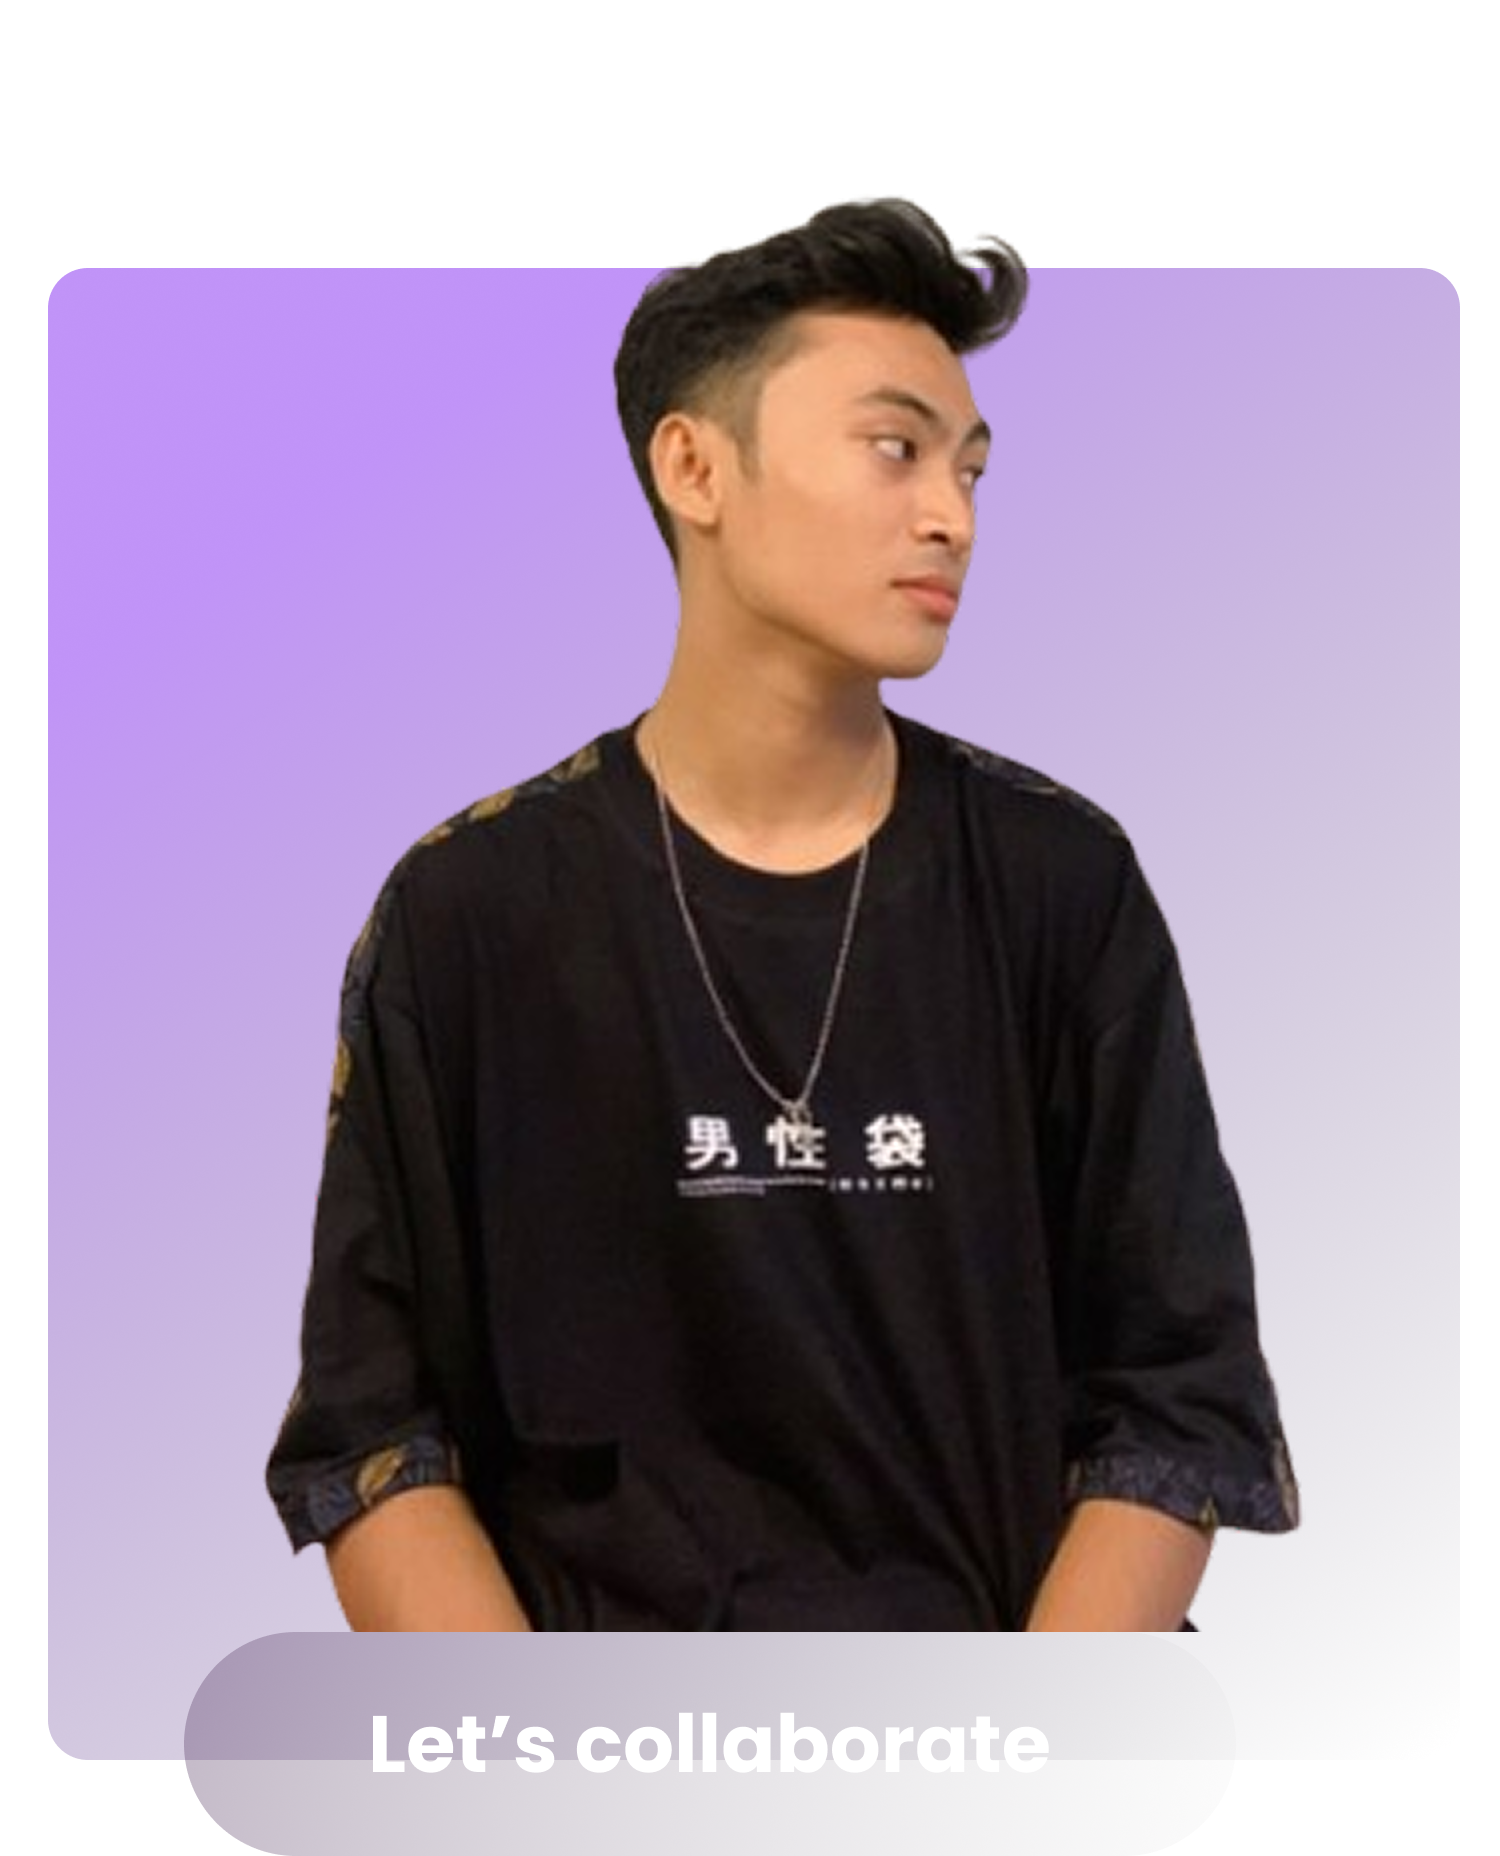
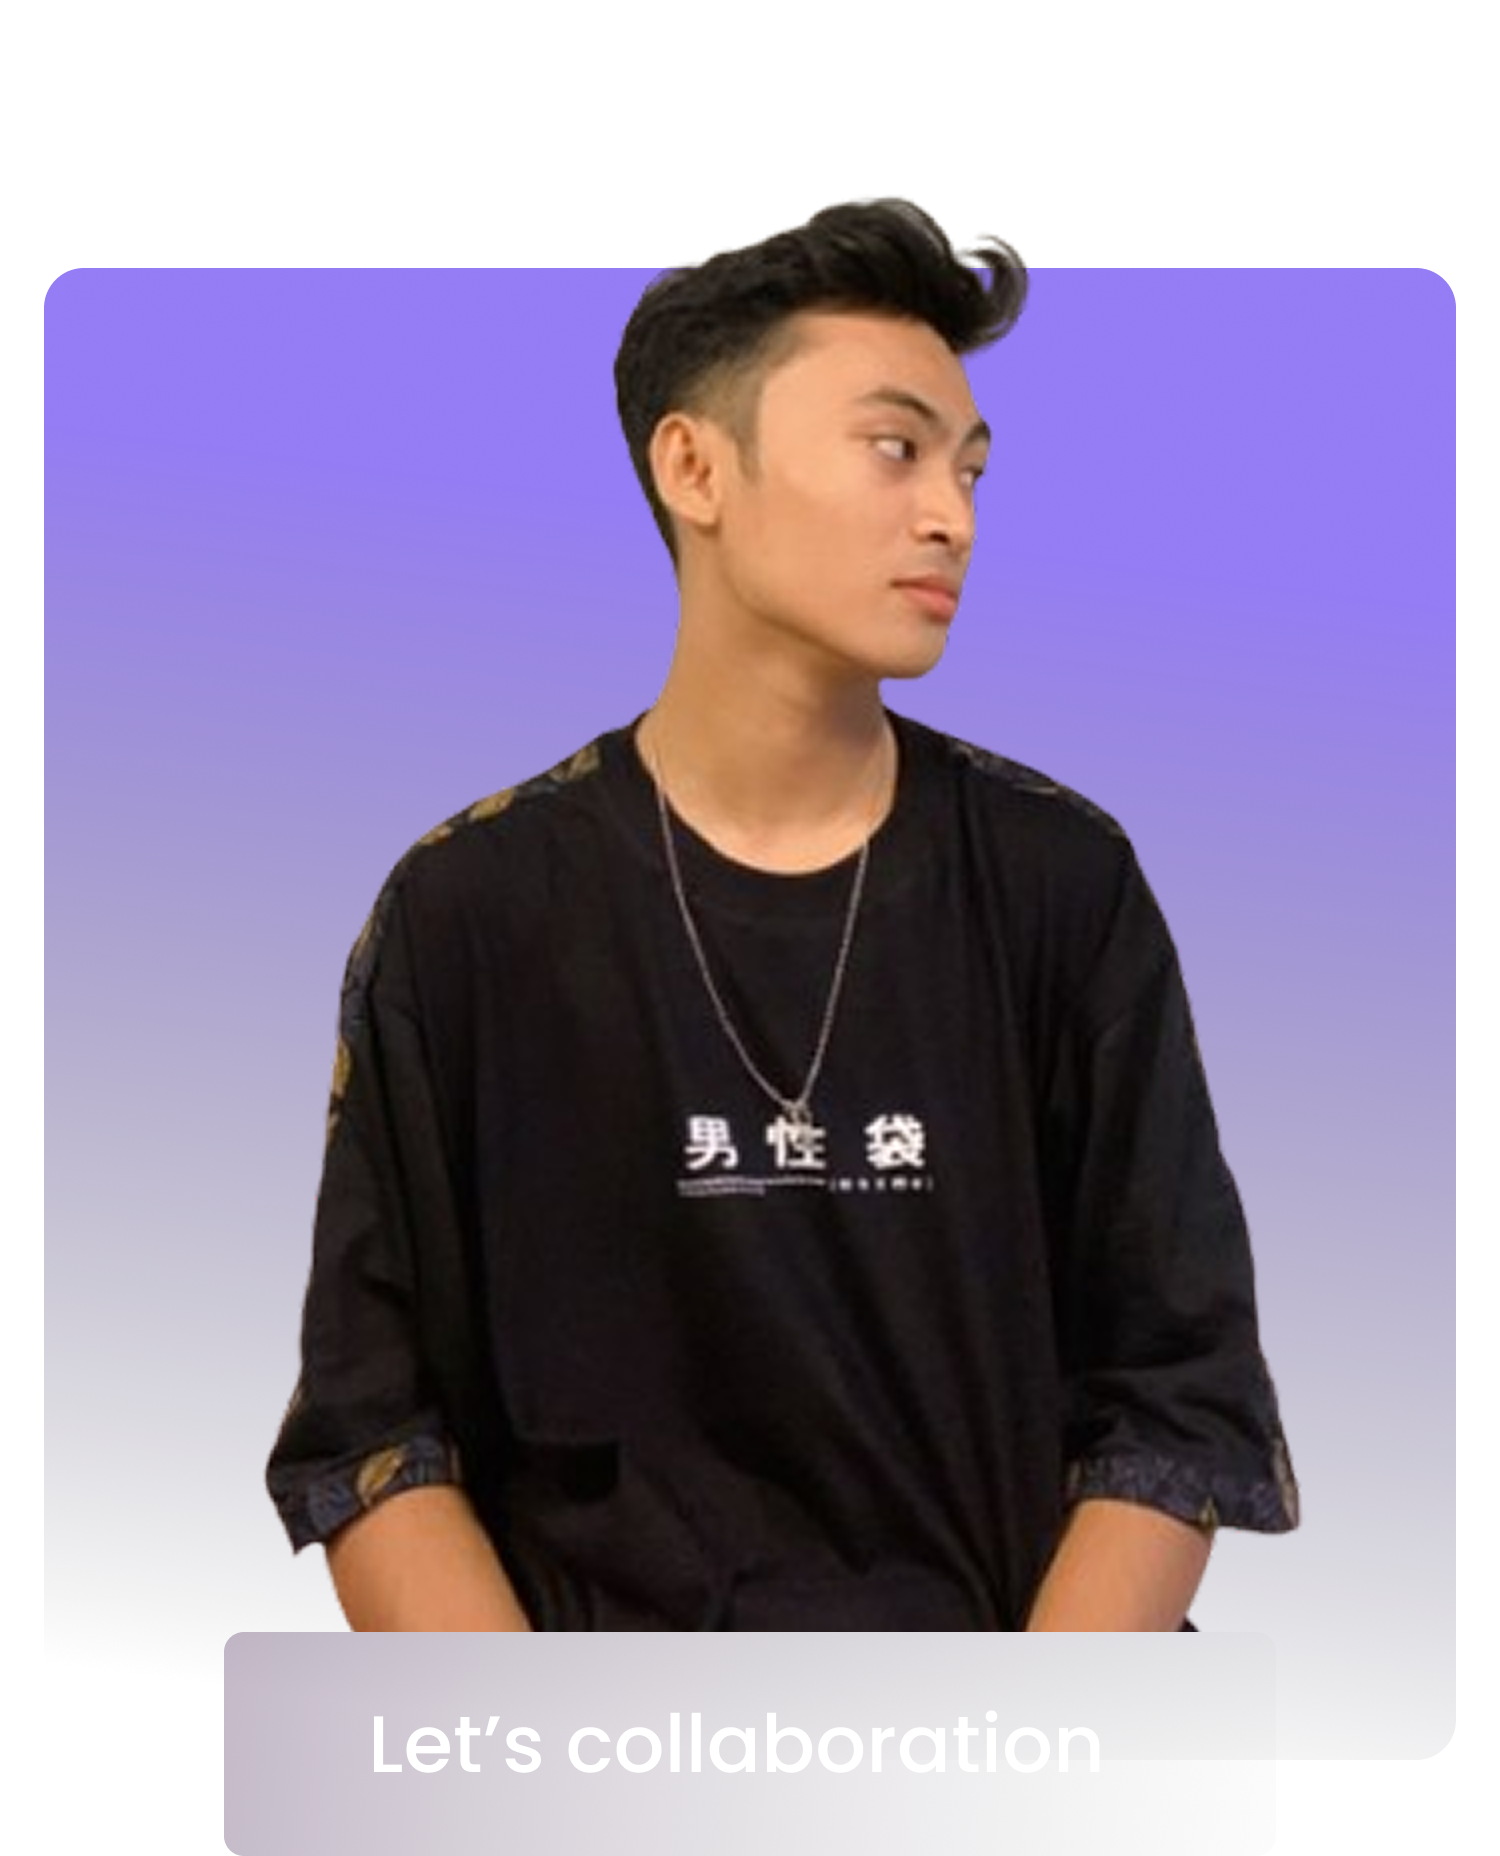
change redesign hero section landing page & add about me section

diff --git a/src/pages/Home.tsx b/src/pages/Home.tsx
@@ -1,23 +1,115 @@
-import React from "react";
-import fhoto from "../assets/img/fhoto.png";
+import myName from "../assets/img/myName.png";
 import aboutMe from "../assets/img/ABOUT ME-b.png";
+import fhoto from "../assets/img/fhoto.png";
+import myWorks from "../assets/img/MY WORKS-b.png"
+import { Dribbble, Github, Instagram, Linkedin, MoveRight } from "lucide-react";
 
 const Home = () => {
   return (
-    <div className="bg-black h-[100vh] flex items-center relative">
-      <img src={aboutMe} alt="" className="w-[730px] absolute right-0 bottom-0" />
-      <div className="text-white w-full px-[150px] border-white flex justify-between">
-        <div className="border mt-20 flex flex-col gap-2">
-          <h3>Hello, i`m</h3>
-          <h1 className="text-2xl font-bold">Biagi Archie Fais</h1>
-          <p>
-            Junior Web Developer <br />
-            Based in Indonesia
-          </p>
+    <div className="bg-[#141414]">
+      {/* section 1 profile */}
+      <div className=" h-[100vh] flex items-center relative">
+        <img
+          src={myName}
+          alt=""
+          className="w-[730px] absolute right-0 bottom-0"
+        />
+        <div className="text-[#EDF0F7] w-full px-[160px] flex justify-between">
+          <div className="flex flex-col gap-4">
+            <h1 className="text-[100px] relative font-bold leading-[110.2%]">
+              Biagi Archie Fais, <br /> Front-End Developer
+            </h1>
+            <p className="text-xl w-[547px]">
+              Self-taught Front-End developer based in Indonesia.Currently, I'm
+              focused on improving my knowledge of front-end technology and am
+              open to collaboration.
+            </p>
+
+            <div className="flex items-center gap-5 mt-8">
+              <div className="group px-3 py-2 rounded-full flex items-center gap-5 border shadow-lg hover:shadow-xl hover:icon hover:cursor-p">
+                Let`s talk
+                <div className="p-1 rounded-full border">
+                  <MoveRight className="w-5 h-5 group-hover:-rotate-45 transition-all duration-300 ease-in-out" />
+                </div>
+              </div>
+              <Linkedin className="text-[#7E62F3]" />
+              <Github className="text-[#7E62F3]" />
+              <Dribbble className="text-[#7E62F3]" />
+              <Instagram className="text-[#7E62F3]" />
+            </div>
+          </div>
         </div>
-        <div className="w-[30%] object-contain mb-20">
-          <img src={fhoto} alt="" className="z-10 relative"/>
+      </div>
+
+      {/* About Me Section  */}
+      <div className="px-[160px] mt-20">
+        <div className="title relative">
+          <h1 className="text-[#7E62F3] font-bold text-5xl pt-12 px-11">
+            ABOUT ME
+          </h1>
+          <img
+            src={aboutMe}
+            alt=""
+            className="w-[773px] absolute top-0 left-0"
+          />
         </div>
+
+        <div className="flex justify-between mt-25">
+          <img src={fhoto} alt="" className="w-[375px] object-contain" />
+          <div className="text-[#EDF0F7] w-[700px] flex flex-col gap-8 mt-10 ">
+            <p className="">
+              Hello! My name is Biagi. My interest in web development started in
+              2016 when I accidentally opened the inspect element tab on a site
+              which ended up tweaking the appearance of the website and in the
+              end taught me a lot about HTML and CSS.
+            </p>
+            <p>
+              However, it was only at the end of 2020 that I began to focus on
+              deepening my knowledge about web development by taking courses
+              from Dicoding through a scholarship program in collaboration with
+              Indosat Ooredoo (IDCamp), several classes from BuildWith Angga and
+              also Udemy.
+            </p>
+            <p>
+              My main goal is to become a reliable Front-End Developer, but it
+              is also possible to become a Full-Stack JavaScript Developer
+              because I also study technology in Back-End development.
+            </p>
+            <p>
+              {" "}
+              Here are some of the technologies I’ve learned: <br /> → HTML <br /> → CSS <br /> →
+              JavaScript <br /> → React.js
+            </p>
+          </div>
+        </div>
+      </div>
+
+
+
+      {/* Project Section */}
+      <div className="h-[50vh] px-[160px] mt-20">
+
+         <div className="title relative">
+          <h1 className="text-[#7E62F3] font-bold text-5xl pt-3 px-11 w-full relative flex justify-end">
+            MY WORKS
+          </h1>
+          <img
+            src={myWorks}
+            alt=""
+            className="w-[773px] absolute top-0 right-0"
+          />
+        </div>
+
+        <div className="">
+          <div className="">
+            <h3>Project 01</h3>
+            <h1></h1>
+          </div>
+
+          <img src="" alt="" />
+
+        </div>
+
       </div>
     </div>
   );

diff --git a/src/components/Navbar.tsx b/src/components/Navbar.tsx
@@ -1,35 +1,11 @@
 import { useEffect, useState } from "react";
 import { Menu, Search, ShoppingBasket, X } from "lucide-react";
 import { Link } from "react-router";
-
+import { navList } from "../data/navLink";
 
 const Navbar = () => {
   const [isVisible, setIsVisible] = useState(false);
-  const [ isMenuOpen, setIsMenuOpen ] = useState(false)
-
-
-  const navLinks = [
-    {
-      name: "Catalog",
-      path: "/"
-    },
-     {
-      name: "Payment",
-      path: "/"
-    },
-     {
-      name: "Reviems",
-      path: "/"
-    },
-     {
-      name: "Contacts",
-      path: "/"
-    },
-     {
-      name: "Company",
-      path: "/"
-    },
-  ]
+  const [isMenuOpen, setIsMenuOpen] = useState(false);
 
   useEffect(() => {
     const handleScroll = () => {
@@ -45,30 +21,35 @@ const Navbar = () => {
     <div className="flex justify-center text-white">
       <nav
         className={`fixed w-full top-0 transition-all duration-300 ease-in-out z-50 ${
-          isVisible ? "shadow-lg rounded-[25px] top-5 border border-white" : "bg-transparent"
+          isVisible
+            ? "shadow-lg top-5 text-base bg-white/10 backdrop-blur-lg border border-white/20 rounded-xl"
+            : "bg-transparent"
         }`}
-        style={{ 
+        style={{
           width: isVisible ? "80%" : "100%",
         }}
       >
         <div className="max-w-7xl mx-auto px-4 sm:px-6 lg:px-8">
-
           <div className="flex justify-between h-14 items-center">
-
             {/*       Logo        */}
             <div className="flex-shrink-0">
               {/* <span className="text-xl font-bold text-gray-800">Logo</span> */}
-              <h1 className="flex items-center text-2xl font-bold text-[#B1B1B]">Biagiachie<span className="">fz</span></h1>
+              <h1 className="flex items-center text-2xl font-bold text-[#B1B1B]">
+                Biagiachie<span className="">fz</span>
+              </h1>
             </div>
 
             {/*     Dektop Nav      */}
             <div className="hidden md:flex space-x-4">
-              {
-             navLinks.map((item, index) => (
+              {navList.map((item, index) => (
                 <Link
                   key={index}
                   to={item.path}
-                  className="hover:text-gray-900 px-3 py-2 rounded-md text-sm font-medium text-white"
+                  className="px-3 py-2 rounded-md text-sm font-medium text-white relative inline-block hover:text-[#7E62F3] 
+         before:absolute before:bottom-0 before:left-0 
+         before:h-[1px] before:w-0 before:bg-[#7E62F3] 
+         before:transition-all before:duration-300 
+         hover:before:w-full"
                 >
                   {item.name}
                 </Link>
@@ -76,41 +57,38 @@ const Navbar = () => {
             </div>
 
             {/*          Dekstop Right           */}
-            
-
 
             {/*     Mobile menu nav before click   */}
-            <div className="md:hidden flex gap-4" style={ 
-              { color: isVisible ? "#1B1B1B" : "white"}
-            }>
-                 <Search />
+            <div
+              className="md:hidden flex gap-4"
+              style={{ color: isVisible ? "#1B1B1B" : "white" }}
+            >
+              <Search />
               <ShoppingBasket />
               <button onClick={() => setIsMenuOpen(true)}>
-              <Menu/>
+                <Menu />
               </button>
             </div>
 
             {/*    after burger menu click   */}
-            <div className={`fixed top-0 left-0 w-full h-screen bg-white text-base flex flex-col md:hidden items-center justify-center gap-6 font-medium text-gray-800 transition-all duration-500 ${isMenuOpen ? "translate-x-0" : "-translate-x-full"}`}>
-              <button className="absolute top-4 right-4" onClick={() => setIsMenuOpen(false)}>
-                <X size={35}/>
+            <div
+              className={`fixed top-0 left-0 w-full h-screen bg-white text-base flex flex-col md:hidden items-center justify-center gap-6 font-medium text-gray-800 transition-all duration-500 ${
+                isMenuOpen ? "translate-x-0" : "-translate-x-full"
+              }`}
+            >
+              <button
+                className="absolute top-4 right-4"
+                onClick={() => setIsMenuOpen(false)}
+              >
+                <X size={35} />
               </button>
 
-               {
-             navLinks.map((item, index) => (
-                <Link
-                  key={index}
-                  to={item.path}
-                  className=""
-                >
+              {navList.map((item, index) => (
+                <Link key={index} to={item.path} className="">
                   {item.name}
                 </Link>
               ))}
-
             </div>
-
-
-
           </div>
         </div>
       </nav>

diff --git a/src/data/navLink.ts b/src/data/navLink.ts
@@ -1,0 +1,20 @@
+import type { nav } from "@/interface/nav";
+
+export const navList: nav[] = [
+    {
+      name: "Home",
+      path: "/"
+    },
+     {
+      name: "About",
+      path: "/about"
+    },
+     {
+      name: "Project",
+      path: "/project"
+    },
+     {
+      name: "Contact",
+      path: "/contact"
+    },
+  ]

diff --git a/src/interface/nav.ts b/src/interface/nav.ts
@@ -1,0 +1,4 @@
+export interface nav {
+  name: string;
+  path: string
+}
